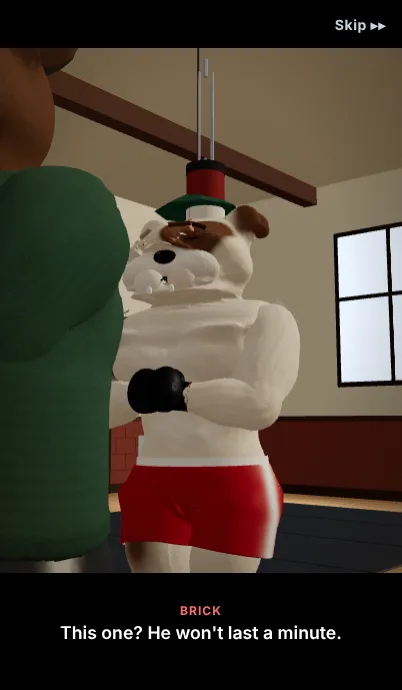
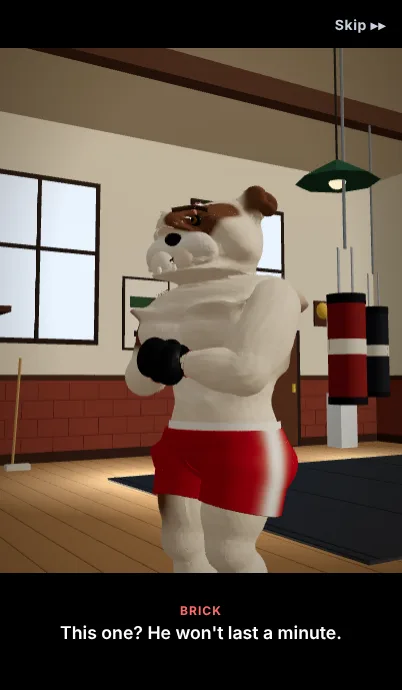
GOTR-0078 slice 1: looser hoodie (no muscle mass under cloth), softer cardigan front, gym bags at head height, camera fixes
Claude-Session: https://claude.ai/code/session_012XYxhJ7jTb1Ye5xdCZM7vq

diff --git a/adventure/story/story-cast.js b/adventure/story/story-cast.js
@@ -108,14 +108,14 @@
   function tube(v, a, bf, bb, k = 1, zc = -.005) { const dz = v.z - zc, r = Math.hypot(v.x, dz); if (r < 1e-4) return null; const b = dz > 0 ? bf : bb, cx = v.x / r, cz = dz / r, R = a * b / Math.hypot(b * cx, a * cz); return R > r ? [cx * (R - r) * k, 0, cz * (R - r) * k] : null; }
   function sleeve(v, R, k = 1) { const dy = v.y - 1.615, r = Math.hypot(dy, v.z); return r > 1e-4 && R > r ? [0, dy / r * (R - r) * k, v.z / r * (R - r) * k] : null; }
   function trouser(v, R, k = 1) { const s = v.x < 0 ? -1 : 1, dx = v.x - s * (.15 + (1 - v.y) * .07), dz = v.z + .02 * smooth((.7 - v.y) / .3), r = Math.hypot(dx, dz); return r > 1e-4 && R > r ? [dx / r * (R - r) * k, 0, dz / r * (R - r) * k] : null; }
-  const SWAP = ['position', 'normal', 'color', 'avatarMuscle', 'avatarMuscleNormal', 'avatarDefinition', 'avatarDefinitionNormal'];
+  const SWAP = ['position', 'normal', 'color', 'avatarMuscle', 'avatarMuscleNormal', 'avatarDefinition', 'avatarDefinitionNormal', 'avatarMass'];
   /** Dresses a copy of the skin's streams. cloth(v) -> null (bare) or { d: offset along the normal (m), c: THREE.Color (linear),
    *  loose?: 0..1 relief washed out (default 1) }. v = { x, y, z, nx, ny, nz, arm (0..1 arm blend) } in the rest pose. */
   function dress(g, cloth, opt = {}) {
     const P = g.attributes.position, N = g.attributes.normal, n = P.count, pos = new Float32Array(P.array), col = new Float32Array(g.attributes.color.array), mask = new Float32Array(n), off = new Float32Array(n);
     const arm = g.attributes.coachArmBlend, v = {};
     for (let i = 0; i < n; i++) {
-      v.x = pos[i * 3]; v.y = pos[i * 3 + 1]; v.z = pos[i * 3 + 2]; v.nx = N.getX(i); v.ny = N.getY(i); v.nz = N.getZ(i); v.arm = arm ? arm.getX(i) : 0;
+      v.x = pos[i * 3]; v.y = pos[i * 3 + 1]; v.z = pos[i * 3 + 2]; v.nx = N.getX(i); v.ny = N.getY(i); v.nz = N.getZ(i); v.arm = smooth((Math.abs(v.x) - .29) / .075) * smooth((v.y - 1.34) / .07); // 0 on the trunk and legs, 1 on the arms (rest pose: arms out along x)
       const o = cloth(v); if (!o) continue;
       mask[i] = o.loose ?? 1; off[i] = o.d; if (o.c) { col[i * 3] = o.c.r; col[i * 3 + 1] = o.c.g; col[i * 3 + 2] = o.c.b; }
       if (o.move) { pos[i * 3] += o.move[0]; pos[i * 3 + 1] += o.move[1]; pos[i * 3 + 2] += o.move[2]; }
@@ -259,7 +259,7 @@
   };
   /** Bruno's clothes are part of him: cardigan over a gym shirt, track pants. Returns the dressed streams. */
   function brunoClothes(rig) {
-    const card = lin(BRUNO.cardigan), rib = lin(BRUNO.rib), shirt = lin(BRUNO.shirt), pants = lin(BRUNO.pants), stripe = lin(BRUNO.stripe), tmp = new THREE.Color();
+    const card = lin(BRUNO.cardigan), rib = lin(BRUNO.rib), shirt = lin(BRUNO.shirt), pants = lin(BRUNO.pants), stripe = lin(BRUNO.stripe), tmp = new THREE.Color(), tmp2 = new THREE.Color();
     return dress(rig.skin.geometry, v => {
       const ax = Math.abs(v.x);
       if (v.y > 1.775 || ax > .915) return null;
@@ -271,7 +271,7 @@
       const front = smooth((v.z - .02) / .06) * (v.arm < .3 ? 1 : 0), open = .016 + .085 * smooth((v.y - 1.30) / .42), k = 1 - front * (1 - smooth((ax - open) / .02)); // k = 0 in the open front (gym shirt), 1 on the cardigan
       const top = 1 - smooth((v.y - 1.735) / .04), hem = bell(v.y, 1.055, .028) * (1 - v.arm), cuff = smooth((ax - .86) / .02), edge = front * bell(ax, open + .03, .016), knit = .5 + .5 * Math.sin((v.arm > .5 ? ax : v.y) * 520);
       const c = tmp.copy(card).lerp(rib, clamp(Math.max(hem, cuff, edge) * (.55 + .45 * knit))).multiplyScalar(1 - .05 * Math.sin(v.y * 260 + ax * 90));
-      if (k < .5) c.copy(shirt).multiplyScalar(1 - .1 * bell(v.y, 1.75, .02));
+      if (k < 1) c.lerp(tmp2.copy(shirt).multiplyScalar(1 - .1 * bell(v.y, 1.75, .02)), 1 - smooth(k / .45));
       const move = v.arm > .6 ? sleeve(v, lerp(.1, .066, smooth((ax - .42) / .46)), smooth((v.arm - .6) / .3)) : v.arm < .25 && v.y < 1.6 ? tube(v, .345, .30, .235, (1 - v.arm * 4) * smooth((1.6 - v.y) / .12)) : null;
       return { d: lerp(.006, .022 + .006 * Math.max(hem, cuff) + .007 * edge, k) * lerp(.25, 1, top), c: c.clone(), move };
     }, { relax: 10 });
@@ -404,7 +404,7 @@
           // hoodie: ribbed hem and cuffs, a kangaroo pocket, loose over the waist
           const hem = 1 - smooth((v.y - 1.085) / .02), cuff = smooth((ax - .875) / .02), front = smooth((v.z - .02) / .06) * (1 - v.arm);
           const pocket = front * band(v.y, 1.10, 1.275, .012) * (1 - smooth((ax - (.185 - (v.y - 1.10) * .28)) / .012)), pocketEdge = front * Math.max(bell(v.y, 1.28, .009) * (1 - smooth((ax - .14) / .01)), bell(ax, .185 - (v.y - 1.10) * .28, .008) * band(v.y, 1.10, 1.28, .01));
-          const waist = bell(v.y, 1.2, .14) * (1 - v.arm), wr = v.arm > .5 ? .0045 * Math.sin(ax * 62) * bell(ax, .66, .13) : .004 * Math.sin(v.y * 70 + v.x * 9) * bell(v.y, 1.14, .08);
+          const waist = bell(v.y, 1.2, .14) * (1 - v.arm), wr = v.arm > .5 ? .004 * Math.sin(ax * 62) * bell(ax, .66, .11) : 0; // a few soft folds at the elbow only
           const rib = (hem > .2 || cuff > .2) ? .5 + .5 * Math.sin((cuff > .2 ? Math.atan2(v.z, v.y - 1.62) * 26 : Math.atan2(v.z, v.x) * 44)) : 0;
           const c = tmp.copy(hood).lerp(dark, clamp(Math.max(hem, cuff) * (.45 + .4 * rib) + pocketEdge * .9)).clone().multiplyScalar(1 - .07 * Math.sin(v.y * 900 + v.x * 610) * Math.sin(v.z * 770));
           const move = v.arm > .6 ? sleeve(v, lerp(.098, .064, smooth((ax - .42) / .46)), smooth((v.arm - .6) / .3)) : v.arm < .25 && v.y < 1.69 ? tube(v, .292, lerp(.2, .232, smooth((v.y - 1.2) / .3)), .205, (1 - v.arm * 4) * smooth((1.69 - v.y) / .1)) : null;

diff --git a/adventure/story/dream-sets.js b/adventure/story/dream-sets.js
@@ -137,7 +137,7 @@
       for (const y of [.5, .85, 1.2]) for (const s of [-1, 1]) { box(S, rx, top + y, rz + s * (R - .12), R * 2 - .2, .035, .035, s > 0 && y === .85 ? '#d9473b' : '#f4f1ea'); box(S, rx + s * (R - .12), top + y, rz, .035, .035, R * 2 - .2, y === .85 ? '#2f6fc0' : '#f4f1ea'); }
       for (let k = 0; k < 3; k++) box(S, rx + 1.2, 0, rz + R + .42 + (2 - k) * .3, 1.2, (k + 1) * .29, .3, '#5b3a2a'); // steps on the camera side
       // ---- heavy bags on a beam (back right), speed bag, floor mats
-      const bag = (x, z, col, len = 1.15) => { const y1 = H - 1.5, y0 = y1 - len; c.shade(x, z, .8, .8); cyl(S, x, y0, z, .2, len, col, P.cyl20); cyl(S, x, y1 - .1, z, .206, .1, '#1d1f24', P.cyl20); cyl(S, x, y0, z, .206, .08, '#1d1f24', P.cyl20); cyl(S, x, y0 + len * .45, z, .203, .16, '#e9e4d6', P.cyl20); for (let k = 0; k < 4; k++) box(S, x + Math.cos(k * TAU / 4) * .1, y1, z + Math.sin(k * TAU / 4) * .1, .018, 1.02, .018, '#aab2bc'); cyl(S, x, y1 + 1.0, z, .03, .2, '#aab2bc', P.cyl6); };
+      const bag = (x, z, col, len = 1.15) => { const y1 = 1.02 + len, y0 = 1.02, ch = H - .32 - y1; c.shade(x, z, .8, .8); cyl(S, x, y0, z, .2, len, col, P.cyl20); cyl(S, x, y1 - .1, z, .206, .1, '#1d1f24', P.cyl20); cyl(S, x, y0, z, .206, .08, '#1d1f24', P.cyl20); cyl(S, x, y0 + len * .45, z, .203, .16, '#e9e4d6', P.cyl20); for (let k = 0; k < 4; k++) box(S, x + Math.cos(k * TAU / 4) * .1 * (1 - .0), y1, z + Math.sin(k * TAU / 4) * .1, .016, .5, .016, '#aab2bc'); cyl(S, x, y1 + .5, z, .018, ch - .5, '#8f98a4', P.cyl6); };
       bag(5.6, -2.5, '#8f2f22'); bag(7.9, -4.4, '#2b2f3a', 1.3); bag(8.6, -1.2, '#7a5238', 1.0);
       box(S, 6.8, 0, -3.0, 5.4, .03, 4.6, '#3b4350'); for (let x = 4.2; x < 9.6; x += 1.35) box(S, x, .031, -3.0, .02, .003, 4.6, '#2a2f38');
       box(S, 2.6, 2.2, ZB + .5, 1.1, .08, 1.0, '#5b3a2a'); box(S, 2.6, 1.3, ZB + .08, .9, 1.0, .08, '#5b3a2a'); S.add(P.sph, M(2.6, 1.93, ZB + .55, .14, .2, .14), C('#8f2f22')); cyl(S, 2.6, 2.1, ZB + .55, .03, .1, '#aab2bc', P.cyl6); // speed bag

diff --git a/qa/gotr-0078/slice1/tools/probe.js b/qa/gotr-0078/slice1/tools/probe.js
@@ -1,9 +1,14 @@
-// Lists the visible meshes of the Fighter in street clothes that sit around the waist (debug).
+// Debug: front surface of the street outfit against the bare body, and fur visibility.
 module.exports = async (p) => {
   await p.waitForFunction(() => window.StoryCast, null, { timeout: 120000 });
   const info = await p.evaluate(() => {
-    const c = app.engine.coach; StoryCast.outfit(c, 'street'); c.root.updateMatrixWorld(true); const out = [];
-    c.root.traverse(o => { if (!o.isMesh) return; let v = true, q = o; while (q && q !== c.root.parent) { v = v && q.visible; q = q.parent; } if (!v) return; o.geometry.computeBoundingBox(); const b = o.geometry.boundingBox.clone().applyMatrix4(o.matrixWorld); if (b.max.y > .95 && b.min.y < 1.15 && !o.isSkinnedMesh) out.push([o.name || o.type, o.parent?.name, o.geometry.type, +b.min.y.toFixed(2), +b.max.y.toFixed(2)].join('|')); if (o.isSkinnedMesh) out.push('SK ' + (o.name || '') + ' ' + (o === c.skin) + ' ' + (o === c.shorts)); });
+    const c = app.engine.coach, g = c.skin.geometry, out = [];
+    const front = (y, x = 0) => { const P = g.attributes.position; let z = -9; for (let i = 0; i < P.count; i++) if (Math.abs(P.getY(i) - y) < .012 && Math.abs(P.getX(i) - x) < .012) z = Math.max(z, P.getZ(i)); return +z.toFixed(3); };
+    const base = [1.1, 1.2, 1.3, 1.4, 1.5, 1.6].map(y => front(y)), baseX = [1.1, 1.2, 1.3, 1.4].map(y => front(y, .1));
+    StoryCast.outfit(c, 'street');
+    out.push('base ' + base, 'street ' + [1.1, 1.2, 1.3, 1.4, 1.5, 1.6].map(y => front(y)), 'baseX ' + baseX, 'streetX ' + [1.1, 1.2, 1.3, 1.4].map(y => front(y, .1)));
+    const a = g.attributes; out.push('attrs ' + Object.keys(a).join(','), 'mass ' + Array.from(a.avatarMass.array.slice(0, 3)) + ' ' + a.avatarMass.array.reduce((n, v) => n + (v !== 0), 0), 'fur ' + c.bodyFur?.visible);
+    const b = StoryCast.rig('bruno'); out.push('bruno fur ' + b.bodyFur?.visible + ' ' + b.bodyFurOff);
     return out;
   });
   console.log(info.join('\n'));

diff --git a/adventure/story/dream-core.js b/adventure/story/dream-core.js
@@ -140,8 +140,8 @@
         { t: 36, pos: [-1.45, 1.68, 2.4], look: [.9, 1.68, .7], fov: 27, ease: 'linear' },
         { t: 36, cut: true, pos: [-.6, 1.45, 5.4], look: [1.1, 1.3, .2] },                     // wide: Brick comes over
         { t: 40, pos: [-.3, 1.45, 5.0], look: [1.1, 1.3, .3], ease: 'smooth' },
-        { t: 40, cut: true, pos: [-.2, 1.25, 2.3], look: [2.3, 1.72, .2], fov: 30 },           // Brick, from below
-        { t: 44, pos: [-.1, 1.25, 2.2], look: [2.3, 1.74, .2], fov: 28, ease: 'linear' }
+        { t: 40, cut: true, pos: [.55, 1.3, 3.0], look: [2.2, 1.6, .2], fov: 32 },           // Brick, from below
+        { t: 44, pos: [.6, 1.3, 2.85], look: [2.2, 1.62, .2], fov: 30, ease: 'linear' }
       ],
       actors: {
         fighter: { rig: 'fighter', keys: [

diff --git a/adventure/story/dream-scenes.js b/adventure/story/dream-scenes.js
@@ -20,7 +20,7 @@
   function speaker(id, e) {
     if (id !== 'fighter') return Cast().names[id]?.[lang()] || id;
     let name = ''; try { name = e.career?.store?.current?.()?.name || ''; } catch { /* no profile */ }
-    return name || W[lang()].you;
+    return name && !/^guest$/i.test(name.trim()) ? name : W[lang()].you;
   }
   const borrow = c => ({ c, parent: c.root.parent, pos: c.root.position.clone(), q: c.root.quaternion.clone(), scale: c.root.scale.clone(), visible: c.root.visible });
   function giveBack(b) { const r = b.c.root; r.parent?.remove(r); if (b.parent) b.parent.add(r); r.position.copy(b.pos); r.quaternion.copy(b.q); r.scale.copy(b.scale); r.visible = b.visible; b.c.maneInitialized = false; }
